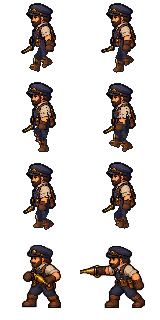
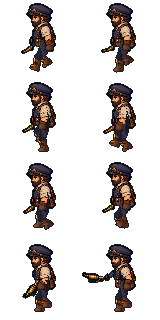
Bake Orrin's attacks from the accepted native character rig

Changed region(s): [[0.5, 0.75, 0.9062, 1.0], [0.125, 0.75, 0.4062, 1.0]]

diff --git a/src/art/orrin-actor.ts b/src/art/orrin-actor.ts
@@ -4,13 +4,14 @@ import { patch, surface, acrossView, ROUND_SIDES, viewPoint, decal, limb, pelvis
 import { renderLayers, type PixelTexture, type SpriteLayer } from './layered-sprite';
 import { armToGrip, referenceRig, type ReferencePose, type WeaponPose } from './reference-rig';
 import { ORRIN_PROPORTIONS, type RigProportions } from './rig-proportions';
-import { REFERENCE_FRAMES } from './walk-cycle';
+import { ANKLE_HEIGHT, FOOT_HEEL, FOOT_TOE, footPoint, REFERENCE_FRAMES } from './walk-cycle';
 
 // Native waist registration, in the actor's anatomical coordinates.
 const LOWER_BODY_ROOT={x:-1.5,y:-4};
+export interface OrrinPose extends ReferencePose { action?:'windup'|'contact' }
 
 /** Orrin carries his native downward-pointing tool, with only a small gait swing. */
-export function orrinPose(phase:number,config:Readonly<RigProportions>=ORRIN_PROPORTIONS):ReferencePose {
+export function orrinPose(phase:number,config:Readonly<RigProportions>=ORRIN_PROPORTIONS):OrrinPose {
   const pose=referenceRig(phase,'lance',config);
   // The native overalls hang behind the chest and slightly toward anatomical
   // left. Move the skeleton, not just its painted silhouette, so contacts and
@@ -28,9 +29,32 @@ export function orrinPose(phase:number,config:Readonly<RigProportions>=ORRIN_PRO
 }
 export const orrinFrame=(frame:number,config:Readonly<RigProportions>=ORRIN_PROPORTIONS)=>orrinPose(frame/REFERENCE_FRAMES,config);
 
+export type OrrinAttackPhase='windup'|'contact';
+
+/** Brace both feet and drive the steam lance forward without changing costume. */
+export function orrinAttackPose(phase:OrrinAttackPhase,config:Readonly<RigProportions>=ORRIN_PROPORTIONS):OrrinPose {
+  const pose=orrinPose(0,config),contact=phase==='contact';
+  pose.hipHeight=config.hipHeight-.6;
+  for(const side of ['left','right'] as const){
+    const leg=pose[side],origin={x:leg.hip.x,y:LOWER_BODY_ROOT.y+(side==='left'?3:-4),z:0},transform={origin,pitch:0};
+    leg.foot={...transform,heel:footPoint(transform,FOOT_HEEL*config.footScale,0),toe:footPoint(transform,FOOT_TOE*config.footScale,0),contact:'sole'};
+    leg.planted=true;leg.phase=0;leg.hip={...leg.hip,z:pose.hipHeight};leg.ankle=footPoint(leg.foot,0,ANKLE_HEIGHT*config.footScale);
+    const dy=leg.ankle.y-leg.hip.y,dz=leg.ankle.z-leg.hip.z,d=Math.hypot(dy,dz);
+    if(d>config.legLength*2)throw new RangeError('Legs cannot reach the attack stance.');
+    const bend=Math.sqrt(Math.max(0,config.legLength**2-d*d/4));
+    leg.knee={x:leg.hip.x,y:leg.hip.y+dy/2-dz/d*bend,z:(leg.hip.z+leg.ankle.z)/2+dy/d*bend};
+    const shoulder={x:pose.arms[side].shoulder.x,y:0,z:pose.hipHeight+config.shoulderHeight},right=side==='right';
+    const reach=(config.upperArmLength+config.forearmLength)/15;
+    const grip={x:shoulder.x,y:(right?(contact?11:-3):(contact?-3:3))*reach,z:shoulder.z-(right?(contact?7:9):12)};
+    pose.arms[side]=armToGrip(shoulder,grip,config);
+  }
+  pose.weapon={...pose.weapon!,grip:pose.arms.right.grip,pitch:(contact?45:-15)*Math.PI/180};
+  return {...pose,action:phase};
+}
+
 /** Native standing artwork has no gait rise. Bind the relaxed arm phase at
  * the resting hip height so sleeves and belt share exactly the same body bob. */
-function orrinBind():ReferencePose {
+function orrinBind():OrrinPose {
   const pose=orrinPose(.25),rise=pose.hipHeight-ORRIN_PROPORTIONS.hipHeight;
   for(const arm of Object.values(pose.arms))for(const point of [arm.shoulder,arm.elbow,arm.wrist,arm.grip])point.z-=rise;
   return pose;
@@ -92,15 +116,25 @@ function garment(id:string,source:PixelTexture,spans:readonly Span[],a:ScreenPoi
   return {id,vertices,faces:[{points:[0,1,2,3],color:0xffffff,unlit:true,texture,uv:[{u:left,v:top},{u:right,v:top},{u:right,v:bottom},{u:left,v:bottom}]}]};
 }
 
-function arms(pose:ReferencePose,source:PixelTexture,direction:ActorDirection):SpriteLayer[]{
+function arms(pose:OrrinPose,source:PixelTexture,direction:ActorDirection):SpriteLayer[]{
   const bind=orrinBind(),layers:SpriteLayer[]=[];
   for(const side of ['left','right'] as const){
     const skin=ARM_SKINS[direction][side];
+    let pixels=source;
+    if(pose.action&&((direction==='left'&&side==='right')||(direction==='right'&&side==='left'))){
+      // Native far-hand fragments border the brass belt. Do not carry those
+      // neighbouring buckle pixels along with a hand that reaches past the bib.
+      pixels={...source,pixels:new Uint8ClampedArray(source.pixels)};
+      for(let i=0;i<pixels.pixels.length;i+=4){
+        const [r,g,b]=pixels.pixels.subarray(i,i+3);
+        if(g>r*.6&&b<g*.6)pixels.pixels[i+3]=0;
+      }
+    }
     const arm=pose.arms[side],rest=bind.arms[side];
     layers.push(
-      garment(`${side}-upper-arm`,source,skin.sleeve,skin.shoulder,skin.elbow,arm.shoulder,arm.elbow,rest.shoulder,rest.elbow,direction,pose.proportions.armWidth),
-      garment(`${side}-forearm`,source,skin.cuff,skin.elbow,skin.wrist,arm.elbow,arm.wrist,rest.elbow,rest.wrist,direction,pose.proportions.armWidth),
-      garment(`${side}-hand`,source,skin.hand,skin.wrist,skin.grip,arm.wrist,arm.grip,rest.wrist,rest.grip,direction,pose.proportions.armWidth));
+      garment(`${side}-upper-arm`,pixels,skin.sleeve,skin.shoulder,skin.elbow,arm.shoulder,arm.elbow,rest.shoulder,rest.elbow,direction,pose.proportions.armWidth),
+      garment(`${side}-forearm`,pixels,skin.cuff,skin.elbow,skin.wrist,arm.elbow,arm.wrist,rest.elbow,rest.wrist,direction,pose.proportions.armWidth),
+      garment(`${side}-hand`,pixels,skin.hand,skin.wrist,skin.grip,arm.wrist,arm.grip,rest.wrist,rest.grip,direction,pose.proportions.armWidth));
   }
   return layers;
 }
@@ -160,7 +194,8 @@ function bootFabric(layer:SpriteLayer,pose:ReferencePose,side:'left'|'right',tex
 }
 
 /** Registered directional cutouts; the partly hidden left nozzle is never mirrored. */
-function lance(weapon:WeaponPose,source:PixelTexture,direction:ActorDirection):SpriteLayer {
+function lance(weapon:WeaponPose,textures:CharacterTextures,direction:ActorDirection,action?:OrrinAttackPhase):SpriteLayer {
+  const source=textures[direction];
   const regions:Record<ActorDirection,readonly[number,number,number,number,number,number]>={
     front:[21,43,11,20,27,41],left:[22,44,13,10,31,43],right:[47,42,11,20,46,42],back:[51,43,8,21,52,42],
   };
@@ -175,6 +210,20 @@ function lance(weapon:WeaponPose,source:PixelTexture,direction:ActorDirection):S
   const bind=orrinBind().arms.right.grip,actual=project(weapon.grip,direction),rest=project(bind,direction);
   const grip={x:gx+actual.x-rest.x,y:gy+actual.y-rest.y},depth=orient(weapon.grip,direction).y+4,c=Math.cos(weapon.pitch),s=Math.sin(weapon.pitch);
   const mesh=decal('right-weapon',texture,[x,y,width,height],0,depth,direction),pivot=viewPoint(grip.x,grip.y,depth,direction);
+  if(direction==='left'&&action){
+    // The far carrying cutout contains only a visible nozzle. Turn the complete
+    // native front tool skin on a view-facing plane when that arm reaches out;
+    // this rotates the prop, never mirrors a character or changes its hand.
+    mesh.faces[0].texture=cutout(textures.front,spans.front);
+    mesh.faces[0].uv=[{u:21,v:43},{u:32,v:43},{u:32,v:63},{u:21,v:63}];
+    const angle=weapon.pitch+Math.PI/4,cos=Math.cos(angle),sin=Math.sin(angle);
+    mesh.vertices=[[21,43],[32,43],[32,63],[21,63]].map(([sx,sy])=>{
+      const dx=sx-27,dy=sy-41;
+      return viewPoint(grip.x+dx*cos-dy*sin,grip.y+dx*sin+dy*cos,depth,direction);
+    });
+    return mesh;
+  }
+
   mesh.vertices=[[x,y],[x+width,y],[x+width,y+height],[x,y+height]].map(([sx,sy])=>{
     const p=viewPoint(grip.x+sx-gx,grip.y+sy-gy,depth,direction),dy=p.y-pivot.y,dz=p.z-pivot.z;
     return {x:p.x,y:pivot.y+dy*c-dz*s,z:pivot.z+dy*s+dz*c};
@@ -182,7 +231,7 @@ function lance(weapon:WeaponPose,source:PixelTexture,direction:ActorDirection):S
   return mesh;
 }
 
-export function orrinLayers(pose:ReferencePose,direction:ActorDirection,textures:CharacterTextures):SpriteLayer[]{
+export function orrinLayers(pose:OrrinPose,direction:ActorDirection,textures:CharacterTextures):SpriteLayer[]{
   const source=textures[direction],head={...source,pixels:new Uint8ClampedArray(source.pixels)},torso={...source,pixels:new Uint8ClampedArray(source.pixels)};
   const armSpans=Object.values(ARM_SKINS[direction]).flatMap(skin=>[...skin.sleeve,...skin.cuff,...skin.hand]);
   for(let y=0;y<80;y++)for(let x=0;x<80;x++){
@@ -216,7 +265,7 @@ export function orrinLayers(pose:ReferencePose,direction:ActorDirection,textures
   layers.push(...arms(pose,source,direction));
   const dy=ORRIN_PROPORTIONS.hipHeight-pose.hipHeight,profile=direction==='left'||direction==='right';
   const rect:readonly[number,number,number,number]=[25,25,30,24];
-  layers.push(decal('torso',torso,rect,dy,profile?11:6,direction),decal('head',head,[20,0,40,34],dy,profile?12:8,direction),lance(pose.weapon!,source,direction));
+  layers.push(decal('torso',torso,rect,dy,profile?11:6,direction),decal('head',head,[20,0,40,34],dy,profile?12:8,direction),lance(pose.weapon!,textures,direction,pose.action));
   return layers;
 }
-export const renderOrrin=(frame:number,direction:ActorDirection,textures:CharacterTextures)=>renderLayers(orrinLayers(orrinFrame(frame),direction,textures),direction);
+export const renderOrrin=(frame:number,direction:ActorDirection,textures:CharacterTextures)=>renderLayers(orrinLayers(frame<REFERENCE_FRAMES?orrinFrame(frame):orrinAttackPose(frame===REFERENCE_FRAMES?'windup':'contact'),direction,textures),direction);

diff --git a/tests/orrin-rig.test.ts b/tests/orrin-rig.test.ts
@@ -1,5 +1,6 @@
+import { project } from '../src/art/actor-space';
 import { expect, it } from 'vitest';
-import { orrinPose } from '../src/art/orrin-actor';
+import { orrinAttackPose, orrinPose } from '../src/art/orrin-actor';
 import { ORRIN_PROPORTIONS } from '../src/art/rig-proportions';
 import { STANCE_FRACTION } from '../src/art/walk-cycle';
 import { walkFrameDistance, WALK_STRIDE_DISTANCE, WALK_FRAMES } from '../src/content/actor-motion';
@@ -31,4 +32,23 @@ it('Orrin runtime stride cancels planted-foot movement through heel and toe roll
       expect(leg.foot[key].y+phase*ORRIN_PROPORTIONS.strideDistance).toBeCloseTo(next.foot[key].y+(phase+.0001)*ORRIN_PROPORTIONS.strideDistance,9);
     }
   }
+});
+
+
+it('Orrin braces on fixed flat feet and drives the right-hand lance forward with rigid limbs',()=>{
+  const windup=orrinAttackPose('windup'),contact=orrinAttackPose('contact');
+  for(const pose of [windup,contact]){
+    for(const side of ['left','right'] as const){
+      const leg=pose[side],arm=pose.arms[side];
+      expect(leg.planted).toBe(true);expect(leg.foot.contact).toBe('sole');
+      expect(leg.foot.heel.z).toBe(0);expect(leg.foot.toe.z).toBe(0);expect(leg.foot).toEqual(windup[side].foot);
+      expect(leg.hip.x).toBe(orrinPose(0)[side].hip.x);expect(leg.hip.y).toBe(orrinPose(0)[side].hip.y);
+      for(const [a,b,length] of [[leg.hip,leg.knee,ORRIN_PROPORTIONS.legLength],[leg.knee,leg.ankle,ORRIN_PROPORTIONS.legLength],[arm.shoulder,arm.elbow,ORRIN_PROPORTIONS.upperArmLength],[arm.elbow,arm.wrist,ORRIN_PROPORTIONS.forearmLength]] as const)
+        expect(Math.hypot(a.x-b.x,a.y-b.y,a.z-b.z)).toBeCloseTo(length,9);
+    }
+    expect(pose.weapon?.hand).toBe('right');expect(pose.weapon?.grip).toEqual(pose.arms.right.grip);expect(pose.weapon!.grip.x).toBeGreaterThan(0);
+  }
+  expect(windup.arms.right.grip.y).toBeLessThan(0);expect(contact.arms.right.grip.y).toBeGreaterThan(0);
+  expect(project(contact.arms.right.grip,'left').x).toBeLessThan(project(windup.arms.right.grip,'left').x);
+  expect(project(contact.arms.right.grip,'right').x).toBeGreaterThan(project(windup.arms.right.grip,'right').x);
 });

diff --git a/AGENTS.md b/AGENTS.md
@@ -36,7 +36,7 @@ Normal CI runs rule/content tests, the production build and the small `@ci` brow
 
 All five playable characters have front/left/right/back actors in `public/art/`, registered by `src/content/actors.ts`. Keep native 80 x 80 dimensions and the shared ground anchor at (40, 68). Use the same character identity and costume for their 128 x 128 portraits. The Vite-only Sprites workshop (`?dev=sprites`) reviews this art without writing saves or builds; keep review code out of production. Artwork prompt briefs and export details live in `assets/characters/prompts.md`.
 
-Nell and Orrin have six-frame walk cycles and two attack poses in `public/art/animation/`, with eight native 80 x 80 frames per small directional page. Keep their idle actors and portraits intact. Nell's walk and attacks are baked from the accepted layered reference, using native face/costume skins and 9-pixel leg bones; run `node scripts/export-nell-animation.mjs` to reproduce its four small pages and canonical 80 x 80 skins. Animation offers a Nell skin with the same editable layers; the model/textures stay dev-only. Keep its prepared RGB pixels unchanged and binary alpha consistent between browser and exporter. Orrin's walk is baked from his own stocky skinned rig with 9.5-pixel leg bones; `node scripts/export-orrin-animation.mjs` regenerates it while preserving his existing attack row. Both characters share the dev-only native material/shape helpers in `src/art/actor-skin.ts`; keep Nell's approved pixels unchanged when adjusting Orrin. Orrin's sleeves, bare forearms and gloves use separately registered native cutouts for both arms in every view; remove the same source spans from the idle torso, keep the relaxed binding at resting hip height, and do not substitute a duplicate near arm for an occluded far arm. His calf and shoe share a continuous leather field so brass highlights do not repeat around the mesh. Register Orrin's lower skeleton at anatomical (-1.5, -4); translate the hips, knees, ankles and foot landmarks together and derive workshop floor marks from the actual hip centre. Lower torso, seat and thighs share per-view trouser fields. Remove old idle trouser/crotch pixels from the torso and keep the dark bib material above the belt. Nell's attack wind-up/contact use the same costume geometry, two planted flat feet, rigid arms and registered right-hand lantern; regenerate all eight frames without loading the previous page. Preserve the accepted six walk poses when changing attacks. The shared frame player serves exploration, followers, cutscenes and tactical paths; keep gait tied to distance traveled and preserve it through cells and turns. Nell advances 24 pixels per cycle; Orrin advances 28. Never mirror profiles or rescale a frame at runtime. The lantern and steam lance stay in the anatomical right hand throughout all six steps: viewer left in front, viewer right in back, far arm in left profile and near arm in right profile. Attacks show wind-up/contact/recovery, with damage visuals and player sounds at contact. Battle restarts and forced outcomes must cancel old presentation callbacks. Capture retaliation before round-end flag resets. Sprites offers all six walk phases, playback, pause and frame stepping; review remains dev-only. See `assets/characters/animation.md` for the source manifest and authoring recipe.
+Nell and Orrin have six-frame walk cycles and two attack poses in `public/art/animation/`, with eight native 80 x 80 frames per small directional page. Keep their idle actors and portraits intact. Nell's walk and attacks are baked from the accepted layered reference, using native face/costume skins and 9-pixel leg bones; run `node scripts/export-nell-animation.mjs` to reproduce its four small pages and canonical 80 x 80 skins. Animation offers a Nell skin with the same editable layers; the model/textures stay dev-only. Keep its prepared RGB pixels unchanged and binary alpha consistent between browser and exporter. Orrin's walk and attacks are baked from his own stocky skinned rig with 9.5-pixel leg bones; `node scripts/export-orrin-animation.mjs` regenerates all eight frames directly from native idle skins. His attacks brace on two fixed flat feet and drive the right-hand steam lance forward; the far left-facing attack reveals the full native tool skin without mirroring the character. Preserve his approved six walk frames when changing attacks. Both characters share the dev-only native material/shape helpers in `src/art/actor-skin.ts`; keep Nell's approved pixels unchanged when adjusting Orrin. Orrin's sleeves, bare forearms and gloves use separately registered native cutouts for both arms in every view; remove the same source spans from the idle torso, keep the relaxed binding at resting hip height, and do not substitute a duplicate near arm for an occluded far arm. His calf and shoe share a continuous leather field so brass highlights do not repeat around the mesh. Register Orrin's lower skeleton at anatomical (-1.5, -4); translate the hips, knees, ankles and foot landmarks together and derive workshop floor marks from the actual hip centre. Lower torso, seat and thighs share per-view trouser fields. Remove old idle trouser/crotch pixels from the torso and keep the dark bib material above the belt. Nell's attack wind-up/contact use the same costume geometry, two planted flat feet, rigid arms and registered right-hand lantern; regenerate all eight frames without loading the previous page. Preserve the accepted six walk poses when changing attacks. The shared frame player serves exploration, followers, cutscenes and tactical paths; keep gait tied to distance traveled and preserve it through cells and turns. Nell advances 24 pixels per cycle; Orrin advances 28. Never mirror profiles or rescale a frame at runtime. The lantern and steam lance stay in the anatomical right hand throughout all six steps: viewer left in front, viewer right in back, far arm in left profile and near arm in right profile. Attacks show wind-up/contact/recovery, with damage visuals and player sounds at contact. Battle restarts and forced outcomes must cancel old presentation callbacks. Capture retaliation before round-end flag resets. Sprites offers all six walk phases, playback, pause and frame stepping; review remains dev-only. See `assets/characters/animation.md` for the source manifest and authoring recipe.
 
 Chapter One uses real 24 x 24 tiles, with editable Tiled JSON under `src/content/chapter-one/maps/` and small shared native tile pages. Read `docs/tile-maps.md` before changing its layouts. Tile properties drive collision; map object layers own interactions, named arrivals and initial scene casts. Use story-flag layers for scenery changes. Keep the four tactical floors clear of scenery and preserve all map/interaction/checkpoint IDs. Each map's `safeArrival` supports restoring valid current-format saves whose cells a layout edit covers or crops: use the nearest connected floor and preserve all progress/resources. Do not restore its removed wholesale backgrounds. Export large authoring sheets into real small image tiles/pages before any upload or commit: Chapter One pages are lossless PNG/WebP at most 192 × 192 pixels and 128 KB each; other changed raster images must be at most 128 KB. Never upload a large source sheet or base64 fragments of it. Run `npm run check:art-upload` after staging and before publishing. Later chapters retain their current native scenery until converted.
 

diff --git a/assets/characters/animation.md b/assets/characters/animation.md
@@ -1,12 +1,12 @@
 # Nell and Orrin motion frames
 
-Nell's walk and attacks are baked from the accepted layered reference with her original native face, cap, braids and costume pixels attached as a skin. Orrin's walk uses his own stocky proportions and native directional skins on the same shared gait solver. Idle actors and portraits remain unchanged. Each direction has one 160 x 320 PNG page containing eight 80 x 80 frames. Frames 0–5 are a complete six-frame walk: left contact, left support, right passing, right contact, right support, left passing. Frames 6–7 are rigged wind-up/contact poses for Nell and the retained native attack artwork for Orrin. Ground anchor remains (40, 68). Neither side view is mirrored; equipment stays in the right hand through every pose.
+Nell's walk and attacks are baked from the accepted layered reference with her original native face, cap, braids and costume pixels attached as a skin. Orrin's walk and attacks use his own stocky proportions and native directional skins on the same layered model. Idle actors and portraits remain unchanged. Each direction has one 160 x 320 PNG page containing eight 80 x 80 frames. Frames 0–5 are a complete six-frame walk: left contact, left support, right passing, right contact, right support, left passing. Frames 6–7 are rigged wind-up/contact poses for both characters. Ground anchor remains (40, 68). Neither side view is mirrored; equipment stays in the right hand through every pose.
 
-`animation-sources.json` records Nell's rig/exporter, Orrin's walk rig and retained attack sources. Nell's deterministic authoring source is `src/art/nell-actor.ts`: the compact configurable preset uses nine-pixel leg bones, smaller foot geometry and a 24-pixel stride, retaining the shared heel/toe roll. Her own rounded, tapered clothing/glove/boot meshes follow those joints; the mannequin's block geometry is not used. A bent right elbow holds the original native lantern artwork at waist height. The textured native renderer samples source pixels without blending; transparent texels do not hide farther parts. Face, costume and braid pixels come from the four existing native idle sprites, with no new source atlas or downsampling of the face. See `nell-rig.md` for the layer/material recipe.
+`animation-sources.json` records both characters' rigs, native skins, attack poses and exporters. Nell's deterministic authoring source is `src/art/nell-actor.ts`: the compact configurable preset uses nine-pixel leg bones, smaller foot geometry and a 24-pixel stride, retaining the shared heel/toe roll. Her own rounded, tapered clothing/glove/boot meshes follow those joints; the mannequin's block geometry is not used. A bent right elbow holds the original native lantern artwork at waist height. The textured native renderer samples source pixels without blending; transparent texels do not hide farther parts. Face, costume and braid pixels come from the four existing native idle sprites, with no new source atlas or downsampling of the face. See `nell-rig.md` for the layer/material recipe.
 
 Run `node scripts/export-nell-animation.mjs` to rebuild Nell's four native pages from the rig and idle skins. It requires the existing development dependencies plus Python/Pillow and renders all eight poses without reading an older animation page. The Animation workshop's **Nell** skin uses the same geometry, textures and renderer, with independently visible/exportable body, limb and weapon layers. Gameplay consumes only the baked PNGs.
 
-Run `node scripts/export-orrin-animation.mjs` to rebuild Orrin's six-frame walks while preserving his existing attack row. Both exporters use `scripts/export-rig-animation.mjs` for canonical binary-alpha skins and small native pages; both models share the material and contoured clothing helpers in `src/art/actor-skin.ts`. Orrin has native broad shoulders, rolled sleeves, work gloves, joined overalls and registered directional lance cutouts. See `orrin-rig.md`. The replaced generated-walk import/guide scripts have been removed. `walk-prompts.json` retains the historical generation briefs. Source sheets stay outside git.
+Run `node scripts/export-orrin-animation.mjs` to rebuild Orrin's six walking and two braced steam-lance attack poses, without reading an older animation page. Both exporters use `scripts/export-rig-animation.mjs` for canonical binary-alpha skins and small native pages; both models share the material and contoured clothing helpers in `src/art/actor-skin.ts`. Orrin has native broad shoulders, rolled sleeves, work gloves, joined overalls and registered directional lance cutouts. See `orrin-rig.md`. The replaced generated-walk import/guide scripts have been removed. `walk-prompts.json` retains the historical generation briefs. Source sheets stay outside git.
 
 ## Runtime playback
 
@@ -16,7 +16,7 @@ The Vite Sprites workshop shares the same pages and frame sequence, with pause a
 
 ## Historical generated attack-source prompts
 
-Nell now uses the layered attack rig; the original Nell generation briefs below are historical. Orrin retains his existing attack art.
+Both characters now use their layered models for attacks. The original generation briefs below are historical.
 
 ### Nell poses
 

diff --git a/assets/characters/orrin-rig.md b/assets/characters/orrin-rig.md
@@ -1,4 +1,4 @@
-# Orrin's skinned walk
+# Orrin's skinned motion
 
 `src/art/orrin-actor.ts` uses the shared six-pose gait with `ORRIN_PROPORTIONS` in `src/art/rig-proportions.ts`. Two rigid 9.5-pixel leg bones, a 19.5-pixel hip baseline, 0.8-pixel rise and 28-pixel stride produce a compact stocky walk. Feet use 75% geometric size, roll around planted heel/toe contacts and retain their anatomical sides. The runtime stride in `src/content/actor-motion.ts` must match the authoring preset. The lower-body root is registered at anatomical x = -1.5, y = -4: the front waist centre projects to x = 41.5 and the back waist centre to x = 38.5, matching the native overalls rather than the template's central axis. Hips, knees, ankles and both foot landmarks move together; the native face and arms retain their accepted placement. The torso volume blends into this root at the waist. Workshop floor marks derive their origin from the actual hips, so guides and pose exports agree with the artwork.
 
@@ -8,6 +8,6 @@ The four idle actors supply canonical 80 x 80 skins in `assets/characters/orrin-
 
 Orrin and Nell share the pure native skin/geometry helpers in `src/art/actor-skin.ts`. Both have continuous waist-to-thigh fabric and shaped boots, rather than the reference mannequin's boxes. Orrin's wider hip spacing, fuller leg width and broad shoulders establish his own build. Each view has its own trouser crop and projected field width. The lower torso, seat and thighs share that field; remove old idle trouser/crotch pixels from the static torso and do not stretch the dark bib material below the belt. Material sampling excludes the source's near-black gap between its idle legs, which would otherwise paint a false hole in the moving seat. His boots have a wider toe box and share one projected leather field across calf and shoe: brass highlights do not repeat around each mesh face. Arm thickness still adjusts the native cutouts perpendicular to each bone. The right-hand lance uses the same resting bind and rotates around its registered artwork grip; the back cutout excludes the neighbouring belt pouch. Changing Orrin's character model must not alter Nell's accepted walk or attacks.
 
-Run `node scripts/export-orrin-animation.mjs` to regenerate the four 160 x 320 pages. The shared authoring pipeline writes six new walk frames and preserves Orrin's two existing attack frames byte-for-byte. No source sheets are uploaded. Repeated exports must produce identical bytes. Idle actors and portraits remain untouched. The old generated-walk importer and guides have been retired.
+Run `node scripts/export-orrin-animation.mjs` to regenerate the four 160 x 320 pages. The shared authoring pipeline rebuilds all eight frames directly from the rig and canonical idle skins, without reading an older animation page. Frames 6–7 use `orrinAttackPose`: the same costume on two fixed flat feet, with a small hip drop, rigid arms, a drawn-back wind-up and a forward right-hand drive. The native lance pitches from -15 to 45 degrees. The left attack reveals the complete native front tool skin, rotated on the far-hand plane; it never mirrors the character or assigns the tool to the near left hand. Far-hand extraction excludes neighbouring belt buckle pixels during the reach. Keep the approved first six walking frames pixel-for-pixel unchanged when adjusting attacks. No source sheets are uploaded. Repeated exports must produce identical bytes. Idle actors and portraits remain untouched. The old generated-walk importer and guides have been retired.
 
 In Vite, open `?dev=animation` and choose **Orrin**. Review all six phases and four directions, layer hide/solo, native PNG exports, fixed-contact floor guides and pose JSON. His face/torso size and steam-lance selection stay native; other measurement controls edit his session-only configuration. **Reset proportions** restores the stocky preset. Nell, Orrin and mannequin settings remain independent and never write campaign saves. Production uses only baked pages and the authored stride; the model and source textures are dev-only.
